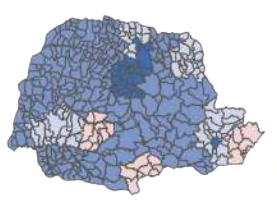
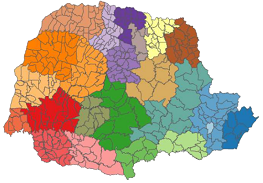
Configuração dos mapas e acesso aos dados da API

diff --git a/src/app/rr/rr.page.html b/src/app/rr/rr.page.html
@@ -6,7 +6,7 @@
 <ion-list>
     <ion-item>
         <ion-label>Ano: </ion-label>
-        <ion-select placeholder="" [(ngModel)]="year" (ionChange)="getMap(year)">
+        <ion-select placeholder="" [(ngModel)]="year" (ionChange)="getMap(year); getArrayData(year)">
           <ion-select-option>2012</ion-select-option>
           <ion-select-option>2013</ion-select-option>
           <ion-select-option>2014</ion-select-option>
@@ -17,36 +17,102 @@
           <ion-select-option>2019</ion-select-option>
         </ion-select>
     </ion-item>
-    <br><br><br>
+    <br><br>
 </ion-list>
 
 
-    <table>
+    <table style="border: 1 px solid pink">
         <tr>
-            <td>
-                <div id="map" style="background-image: url('assets/{{nameImage}}')">
+            <td style="border: 1px solid rgb(216, 4, 145)">
+                <div id="map" style="background-image: url('assets/{{imageName}}')">
                     <ion-label *ngIf="year == ''" >Selecione um ano</ion-label>
-                    <ion-icon *ngIf="year > 0" id="pin" style="cursor:pointer" name="pin-sharp"></ion-icon>
+                    
+                    <table *ngIf="year > 0" id="table_pins">
+                        <tr style="border: 2px solid red;">
+                            <td style="height: 13px; width: 13px;"> </td>
+                            <td style="height: 13px; width: 13px;"> </td>
+                            <td style="height: 13px; width: 13px;"><ion-icon class="pin" (click)="getData(1)" style="cursor:pointer" name="pin-sharp"></ion-icon></td>
+                            <td style="height: 13px; width: 13px;"> </td>
+                            <td style="height: 13px; width: 13px;"> <ion-icon class="pin" (click)="getData(2)" style="cursor:pointer" name="pin-sharp"></ion-icon></td>
+                            <td style="height: 13px; width: 13px; padding-left: 9px;"><ion-icon class="pin" (click)="getData(3)" style="cursor:pointer" name="pin-sharp"></ion-icon></td>
+                        </tr>
+                        <tr style="border: 2px solid red;">
+                            <td style="height: 13px; width: 13px;"> </td>
+                            <td style="height: 13px; width: 13px;"><ion-icon class="pin" (click)="getData(4)" style="cursor:pointer" name="pin-sharp"></ion-icon></td>
+                            <td style="height: 13px; width: 13px;"> </td>
+                            <td style="height: 13px; width: 13px; padding-left: 9px;"> <ion-icon class="pin" (click)="getData(5)" style="cursor:pointer" name="pin-sharp"></ion-icon></td>
+                            <td style="height: 13px; width: 13px; "></td>
+                            <td style="height: 13px; width: 13px; padding-right: 10px;"><ion-icon class="pin" (click)="getData(6)" style="cursor:pointer" name="pin-sharp"></ion-icon></td>
+                            <td style="height: 13px; width: 13px;"><ion-icon class="pin" style="cursor:pointer" (click)="getData(7)" name="pin-sharp"></ion-icon></td>
+                            <td style="height: 13px; width: 13px;"></td>
+                        </tr>
+                        <tr style="border: 2px solid red;">
+                            <td style="height: 13px; width: 13px;"> </td>
+                            <td style="height: 13px; width: 13px;"> </td>
+                            <td style="height: 13px; width: 13px;"> </td>
+                            <td style="height: 13px; width: 13px;"><ion-icon class="pin" (click)="getData(8)" style="cursor:pointer" name="pin-sharp"></ion-icon></td>
+                            <td style="height: 13px; width: 13px;"><ion-icon class="pin" (click)="getData(9)" style="cursor:pointer" name="pin-sharp"></ion-icon></td>
+                            <td style="height: 13px; width: 13px;"><ion-icon class="pin" (click)="getData(10)" style="cursor:pointer" name="pin-sharp"></ion-icon></td>
+                            <td style="height: 13px; width: 13px;"></td>
+                            <td style="height: 13px; width: 13px; margin-left: 19px;"><ion-icon class="pin" (click)="getData(11)" style="cursor:pointer" name="pin-sharp"></ion-icon></td>
+                           
+                        </tr>  
+                        <tr style="border: 2px solid red;">
+                            <td style="height: 13px; width: 13px;"><ion-icon class="pin" (click)="getData(12)" style="cursor:pointer" name="pin-sharp"></ion-icon> </td>
+                            <td style="height: 13px; width: 13px;"></td>
+                            <td style="height: 13px; width: 13px;"> </td>
+                            <td style="height: 13px; width: 13px;"> </td>
+                            <td style="height: 13px; width: 13px;"> <ion-icon class="pin" (click)="getData(13)" style="cursor:pointer" name="pin-sharp"></ion-icon></td>
+                            <td style="height: 13px; width: 13px;"></td>
+                            <td style="height: 13px; width: 13px;"> </td>
+                            <td style="height: 13px; width: 13px;"> </td>
+                            <td style="height: 13px; width: 13px;"><ion-icon class="pin" (click)="getData(14)" style="cursor:pointer" name="pin-sharp"></ion-icon></td>
+                            <td style="height: 13px; width: 13px;"></td>
+                        </tr>
+                        <tr style="border: 2px solid red;">
+                            <td style="height: 13px; width: 13px;"><ion-icon class="pin" (click)="getData(15)" style="cursor:pointer" name="pin-sharp"></ion-icon></td>
+                            <td style="height: 13px; width: 13px;"><ion-icon class="pin" (click)="getData(16)" style="cursor:pointer" name="pin-sharp"></ion-icon></td>
+                            <td style="height: 13px; width: 13px;"> </td>
+                            <td style="height: 13px; width: 13px;"><ion-icon class="pin" (click)="getData(17)" style="cursor:pointer" name="pin-sharp"></ion-icon></td>
+                            <td style="height: 13px; width: 13px;"> </td>
+                            <td style="height: 13px; width: 13px;"> </td>
+                            <td style="height: 13px; width: 13px;"> </td>
+                            <td style="height: 13px; width: 13px;"></td>
+                            <td style="height: 13px; width: 13px; padding-left: 0px; padding-top: 7px;"><ion-icon class="pin" (click)="getData(18)" style="cursor:pointer" name="pin-sharp"></ion-icon></td>
+                            <td style="height: 13px; width: 13px; padding-top: 0px;"><ion-icon class="pin" (click)="getData(19)" style="cursor:pointer" name="pin-sharp"></ion-icon></td>
+                            
+                        </tr>
+                        <tr>
+                            <td style="height: 13px; width: 13px;"> </td>
+                            <td style="height: 13px; width: 13px;"><ion-icon class="pin" (click)="getData(20)" style="cursor:pointer" name="pin-sharp"></ion-icon></td>
+                            <td style="height: 13px; width: 13px;"> </td>
+                            <td style="height: 13px; width: 13px;" ><ion-icon class="pin" (click)="getData(21)" style="cursor:pointer" name="pin-sharp"></ion-icon></td>
+                            <td style="height: 13px; width: 13px;" > </td>
+                            <td style="height: 13px; width: 13px;"><ion-icon class="pin" (click)="getData(22)"style="cursor:pointer" name="pin-sharp"></ion-icon></td>
+                            <td style="height: 13px; width: 13px;"> </td>
+                            <td style="height: 13px; width: 13px;"><ion-icon class="pin" (click)="getData(23)" style="cursor:pointer" name="pin-sharp"></ion-icon></td>
+                        </tr>
+                    </table>
                 </div>
             </td>
             <td>
-                <div *ngIf="year > 0" id="legend" style="background-image: url('assets/{{nameLegend}}');"></div>
+                <div *ngIf="year > 0" id="legend" style="background-image: url('assets/{{legendImage}}');"></div>
             </td>
         </tr>
     </table>
-    
-    <br><br><br><br>
-    <table *ngIf="year > 0">
+
+
+    <table id="range" *ngIf="year > 0" style="border: 1px solid green; margin-top: 60px;">
         <tr>
             <td id="arrow">
-                <ion-icon name="caret-back-outline" (ionKnobMoveEnd)="getValueMounth($event)"></ion-icon>
+                <ion-icon name="caret-back-outline" (ionKnobMoveEnd)="getMonthValue($event)"></ion-icon>
             </td>
             <td>
-                <ion-range [ticks]="true" [snaps]="true" [min]="1" [max]="12" (ionKnobMoveEnd)="getValueMounth($event)" [(ngModel)]="mounth"></ion-range>
-                <ion-label> {{ nameMounth }}</ion-label>
+                <ion-range [ticks]="true" [snaps]="true" [min]="1" [max]="12" (ionKnobMoveEnd)="getMonthValue($event)" [(ngModel)]="mounth"></ion-range>
+                <ion-label> {{ nameMonth }}</ion-label>
             </td>
             <td id="arrow">
-                <ion-icon name="caret-forward-outline" (click)="getValueMounth($event)"></ion-icon>
+                <ion-icon name="caret-forward-outline" (click)="getMonthValue($event)"></ion-icon>
             </td>
         </tr>
    

diff --git a/src/app/rr/rr.page.ts b/src/app/rr/rr.page.ts
@@ -1,7 +1,8 @@
 import { Component, OnInit } from '@angular/core';
 import { RangeValue } from '@ionic/core';
-import { RangeCustomEvent } from '@ionic/angular';
+import { AlertController, RangeCustomEvent } from '@ionic/angular';
 import { Router } from '@angular/router';
+import { DataService, Data } from '../services/data.service';
 
 @Component({
   selector: 'app-rr',
@@ -9,46 +10,49 @@ import { Router } from '@angular/router';
   styleUrls: ['./rr.page.scss'],
 })
 export class RrPage implements OnInit {
-  valueMounth: RangeValue;
-  nameMounth: string = "Janeiro";
-  mounth: string = "1";
-  nameImage = "imgStart.png";
-  year: string = "";
-  nameLegend = "imgStart.png";
+  monthValue: RangeValue;
+  monthName: string = "Janeiro";
+  month: number = 1;
+  imageName = "imgStart.png";
+  year: number = 0;
+  legendImage = "imgStart.png";
+  arrayData: Data[] = [];
 
   constructor(
-    private router: Router
+    private router: Router,
+    private dataService: DataService,
+    private alertController: AlertController
   ) { }
 
-  getValueMounth(ev: Event) {
-    this.valueMounth = (ev as RangeCustomEvent).detail.value;
-    this.mounth = this.valueMounth.toString();
+  getMonthValue(ev: Event) {
+    this.monthValue = (ev as RangeCustomEvent).detail.value;
+    this.month = parseInt(this.monthValue.toString());
     this.getMap(this.year);
 
-    if(this.valueMounth == 1){
-      this.nameMounth = "Janeiro";
-    }else if(this.valueMounth == 2){
-      this.nameMounth = "Fevereiro";
-    }else if(this.valueMounth == 3){
-      this.nameMounth = "Março";
-    }else if(this.valueMounth == 4){
-      this.nameMounth = "Abril";
-    }else if(this.valueMounth == 5){
-      this.nameMounth = "Maio";
-    }else if(this.valueMounth == 6){
-      this.nameMounth = "Junho";
-    }else if(this.valueMounth == 7){
-      this.nameMounth = "Julho";
-    }else if(this.valueMounth == 8){
-      this.nameMounth = "Agosto";
-    }else if(this.valueMounth == 9){
-      this.nameMounth = "Setembro";
-    }else if(this.valueMounth == 10){
-      this.nameMounth = "Outubro";
-    }else if(this.valueMounth == 11){
-      this.nameMounth = "Novembro";
-    }else if(this.valueMounth == 12){
-      this.nameMounth = "Dezembro";
+    if(this.monthValue == 1){
+      this.monthName= "Janeiro";
+    }else if(this.monthValue == 2){
+      this.monthName = "Fevereiro";
+    }else if(this.monthValue == 3){
+      this.monthName = "Março";
+    }else if(this.monthValue == 4){
+      this.monthName = "Abril";
+    }else if(this.monthValue == 5){
+      this.monthName = "Maio";
+    }else if(this.monthValue == 6){
+      this.monthName = "Junho";
+    }else if(this.monthValue == 7){
+      this.monthName = "Julho";
+    }else if(this.monthValue == 8){
+      this.monthName = "Agosto";
+    }else if(this.monthValue == 9){
+      this.monthName = "Setembro";
+    }else if(this.monthValue == 10){
+      this.monthName = "Outubro";
+    }else if(this.monthValue == 11){
+      this.monthName = "Novembro";
+    }else if(this.monthValue == 12){
+      this.monthName = "Dezembro";
     }
   }
 
@@ -57,15 +61,47 @@ export class RrPage implements OnInit {
 
   getMap(year){
     this.year = year;
-    this.nameImage = "rr/"+ this.year + "/" + this.mounth +"-"+ year+".png";
-    this.nameLegend = "rr/"+ this.year + "/" + "legend.png";
+    this.imageName = "rr/"+ this.year + "/" + this.month +"-"+ year+".png";
+    this.legendImage = "rr/"+ this.year + "/" + "legend.png";
   }
 
-  backMounth(){
-    console.log(this.mounth);
+  backMonth(){
+    console.log(this.month);
   }
 
-  nextMouth(){
-    console.log(this.mounth);
+  nextMoth(){
+    console.log(this.month);
+  }
+
+  async getArrayData(year){
+    await this.dataService.getData(year).subscribe(res => {
+      this.arrayData = res;
+    }); 
+  }
+
+  getData(n){
+    //console.log(this.arrayData);
+    //console.log(this.year + "/" + this.month + "-" + n);
+    for (let l of this.arrayData) {
+      if((l.name == n) && (l.year == this.year) && (l.month  = this.month)){
+       // console.log(l)
+        var header = l.name;
+        var msg = " Período: "+ this.monthName + "/" + this.year + "<br>" +
+       " Crimes: "+ l.crimes + "<br>" +
+        " População: "+ l.population + "<br>" +
+        " RR: "+ l.rr + "<br>";
+        this.showAlert(header, msg)
+      }
+    }
+   
+  }
+
+  async showAlert(header, message) {
+    const alert = await this.alertController.create({
+      header,
+      message,
+      buttons: ['OK'],
+    });
+    await alert.present();
   }
 }

diff --git a/src/app/rr/rr.page.scss b/src/app/rr/rr.page.scss
@@ -1,12 +1,12 @@
   #map {
-    //border: 2px solid yellow;
+    border: 2px solid yellow;
     width: 300px;
-    weight: 300px;
+    weight: 150px;
     text-align: center;
     align-items: center;
     background-size: 100%;
-    padding-bottom: 210px;
-    background-repeat: no-repeat;
+    padding-bottom: 20px;
+   //background-repeat: no-repeat;
   }
 
   #legend {
@@ -16,7 +16,7 @@
     text-align: right;
     align-items: right;
     background-size: 100%;
-    padding-bottom: 130px;
+    padding-bottom: 200px;
     background-repeat: no-repeat;
   }
 
@@ -69,14 +69,22 @@
     text-align: center;
   }
   
-  table {
+  #range {
     width: 100%; 
-    weigth:20%;
+    weigth: 20%;
     align-items: center;
     text-align: center;
    // border: 1px solid;
   }
  
-  #pin {
-    font-size: 30px;
+  .pin {
+    font-size: 24px;
+  }
+
+  #table_pins{
+    width: 240px; 
+    margin-left: 20px; 
+    margin-top: 2px; 
+    weight: 300px; 
+    //border: 1px solid blue;"
   }

diff --git a/src/app/services/data.service.ts b/src/app/services/data.service.ts
@@ -1,0 +1,32 @@
+import { Injectable } from '@angular/core';
+import { HttpClient, HttpHeaders } from '@angular/common/http';
+import { Observable } from 'rxjs';
+
+export interface Data{
+  id?: string;
+  name: string;
+  crimes: string;
+  population: number;
+  rr:number;
+  sir: number;
+  month: number;
+  year: number;
+}
+
+@Injectable({
+  providedIn: 'root'
+})
+export class DataService {
+
+  private readonly API_URL = 'http://localhost:8080/api/';
+  
+  constructor(
+    private httpClient: HttpClient
+    ) { 
+
+    }
+
+    getData(year): Observable<Data[]> {
+      return this.httpClient.get<any>(this.API_URL+year);
+    }
+  }

diff --git a/src/app/app.module.ts b/src/app/app.module.ts
@@ -6,10 +6,16 @@ import { IonicModule, IonicRouteStrategy } from '@ionic/angular';
 
 import { AppComponent } from './app.component';
 import { AppRoutingModule } from './app-routing.module';
+import { HttpClientModule } from '@angular/common/http';
 
 @NgModule({
   declarations: [AppComponent],
-  imports: [BrowserModule, IonicModule.forRoot(), AppRoutingModule],
+  imports: [
+    BrowserModule, 
+    IonicModule.forRoot(), 
+    AppRoutingModule,
+    HttpClientModule,
+  ],
   providers: [{ provide: RouteReuseStrategy, useClass: IonicRouteStrategy }],
   bootstrap: [AppComponent],
 })

diff --git a/src/app/services/data.service.spec.ts b/src/app/services/data.service.spec.ts
@@ -1,0 +1,16 @@
+import { TestBed } from '@angular/core/testing';
+
+import { DataService } from './data.service';
+
+describe('DataService', () => {
+  let service: DataService;
+
+  beforeEach(() => {
+    TestBed.configureTestingModule({});
+    service = TestBed.inject(DataService);
+  });
+
+  it('should be created', () => {
+    expect(service).toBeTruthy();
+  });
+});
